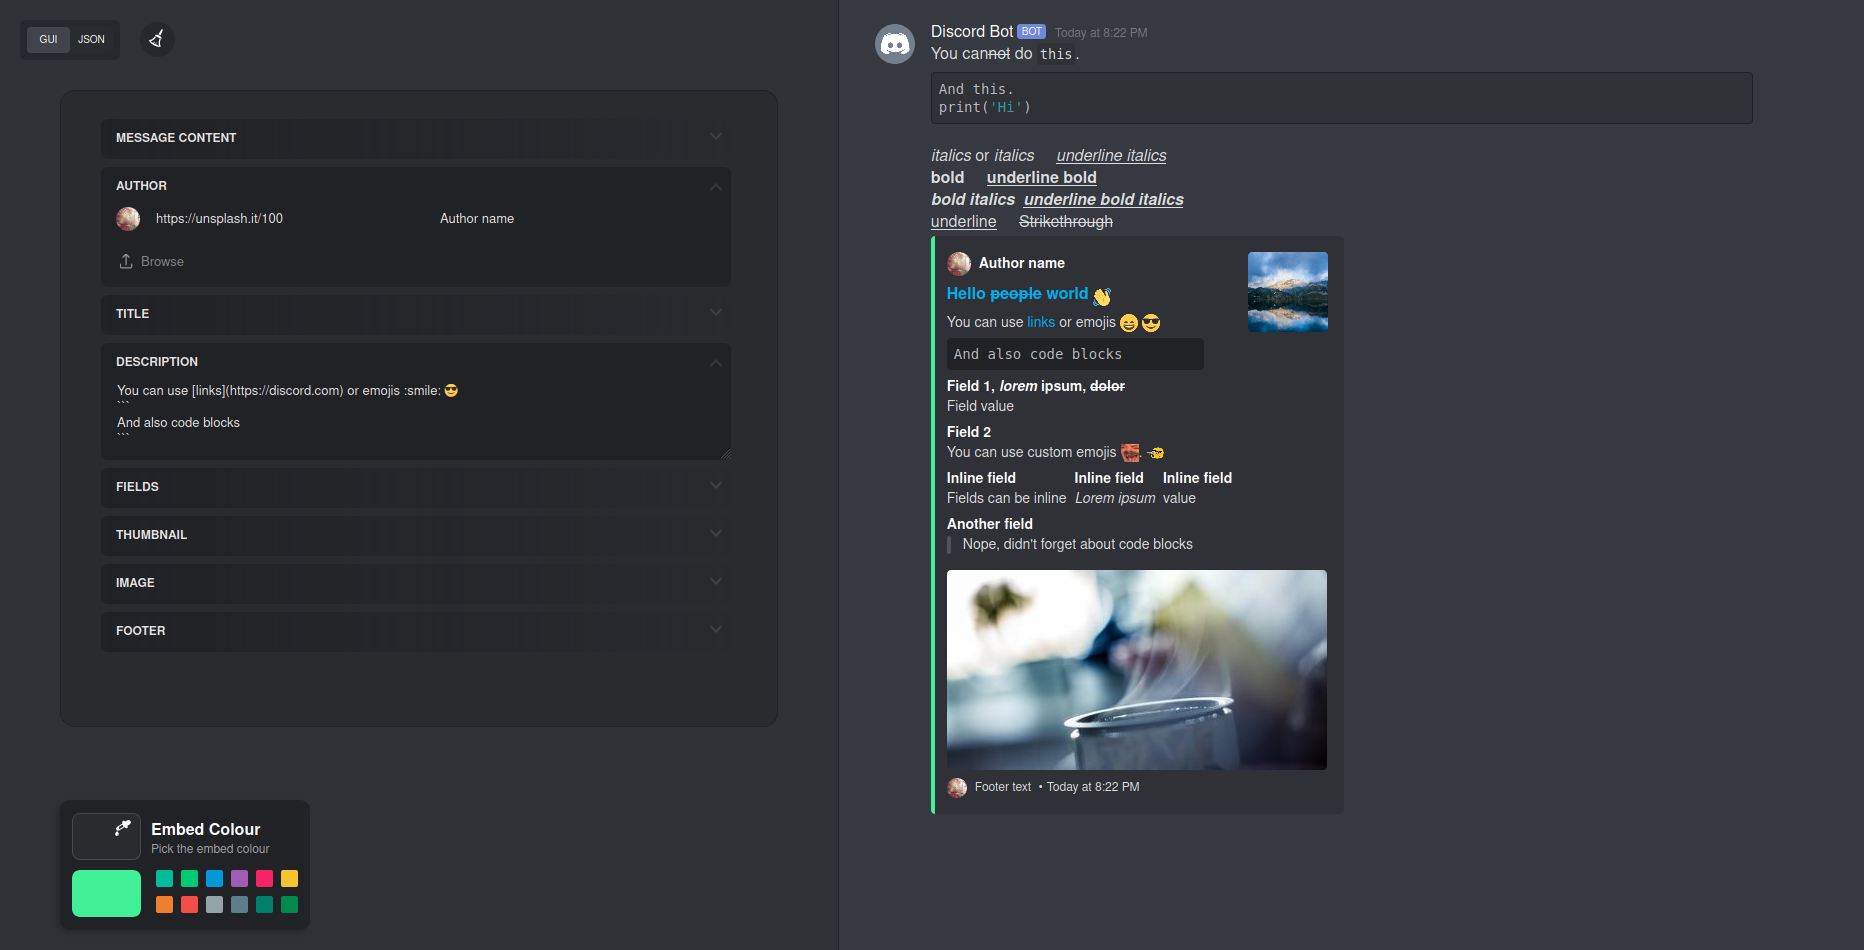
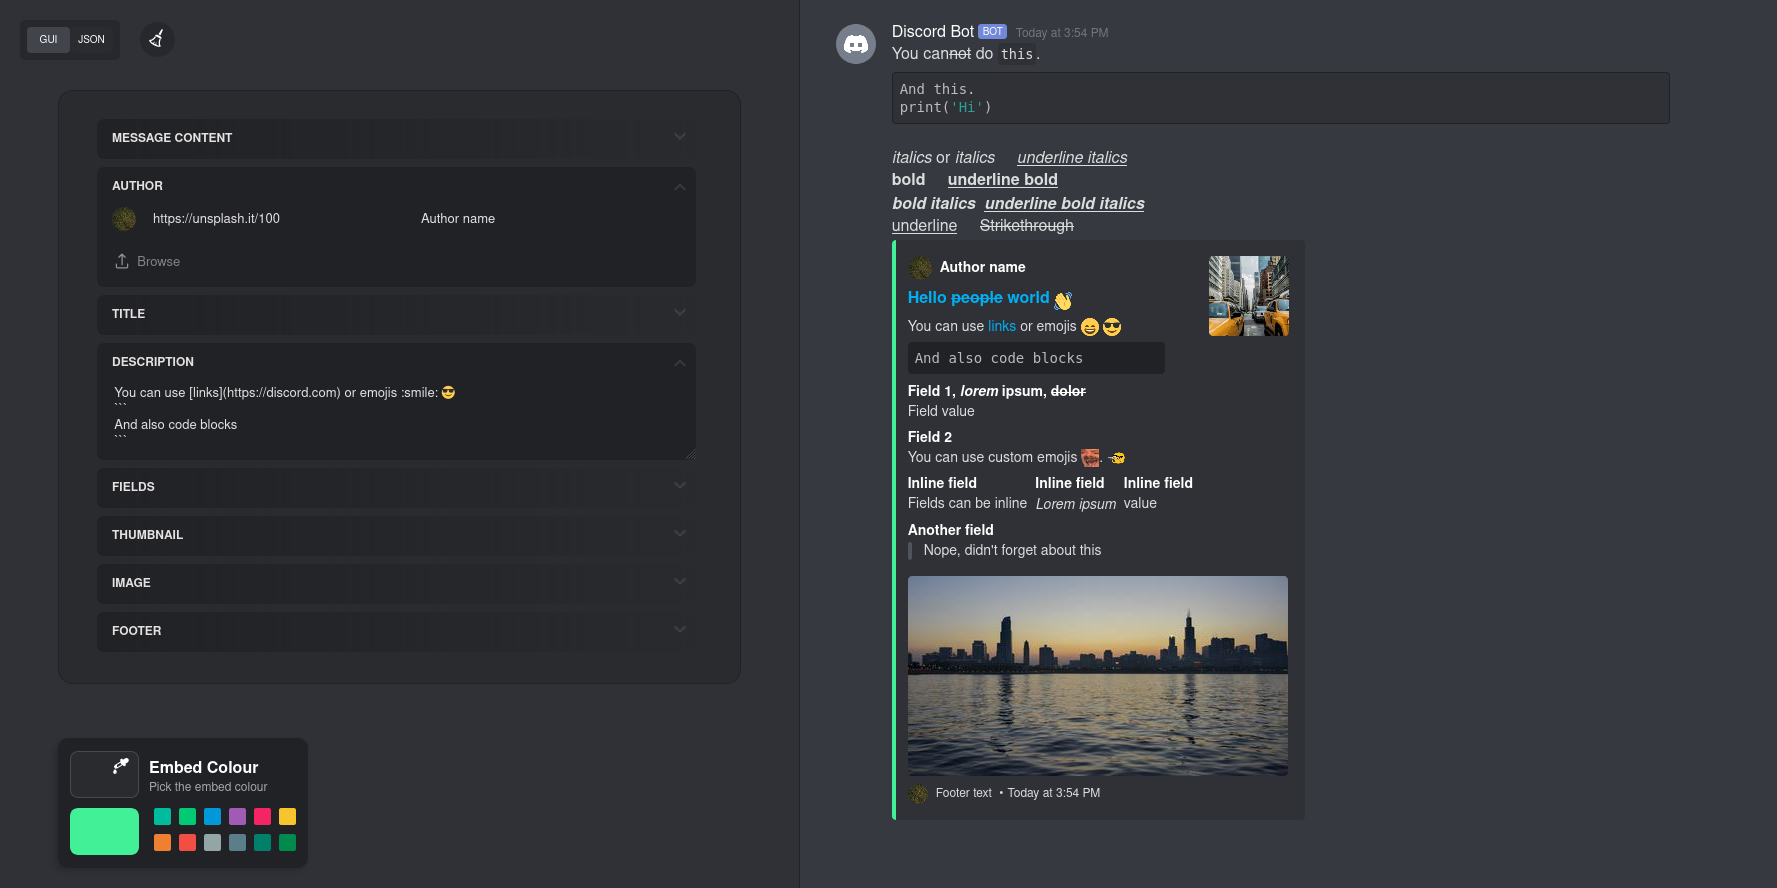
Update script, gui image

diff --git a/assets/js/index.js b/assets/js/index.js
@@ -59,7 +59,7 @@ var activeFields, colNum = 1, num = 0,
                 },
                 {
                     name: "Another field",
-                    value: "> Nope, didn't forget about code blocks",
+                    value: "> Nope, didn't forget about this",
                     inline: false
                 }
             ]
